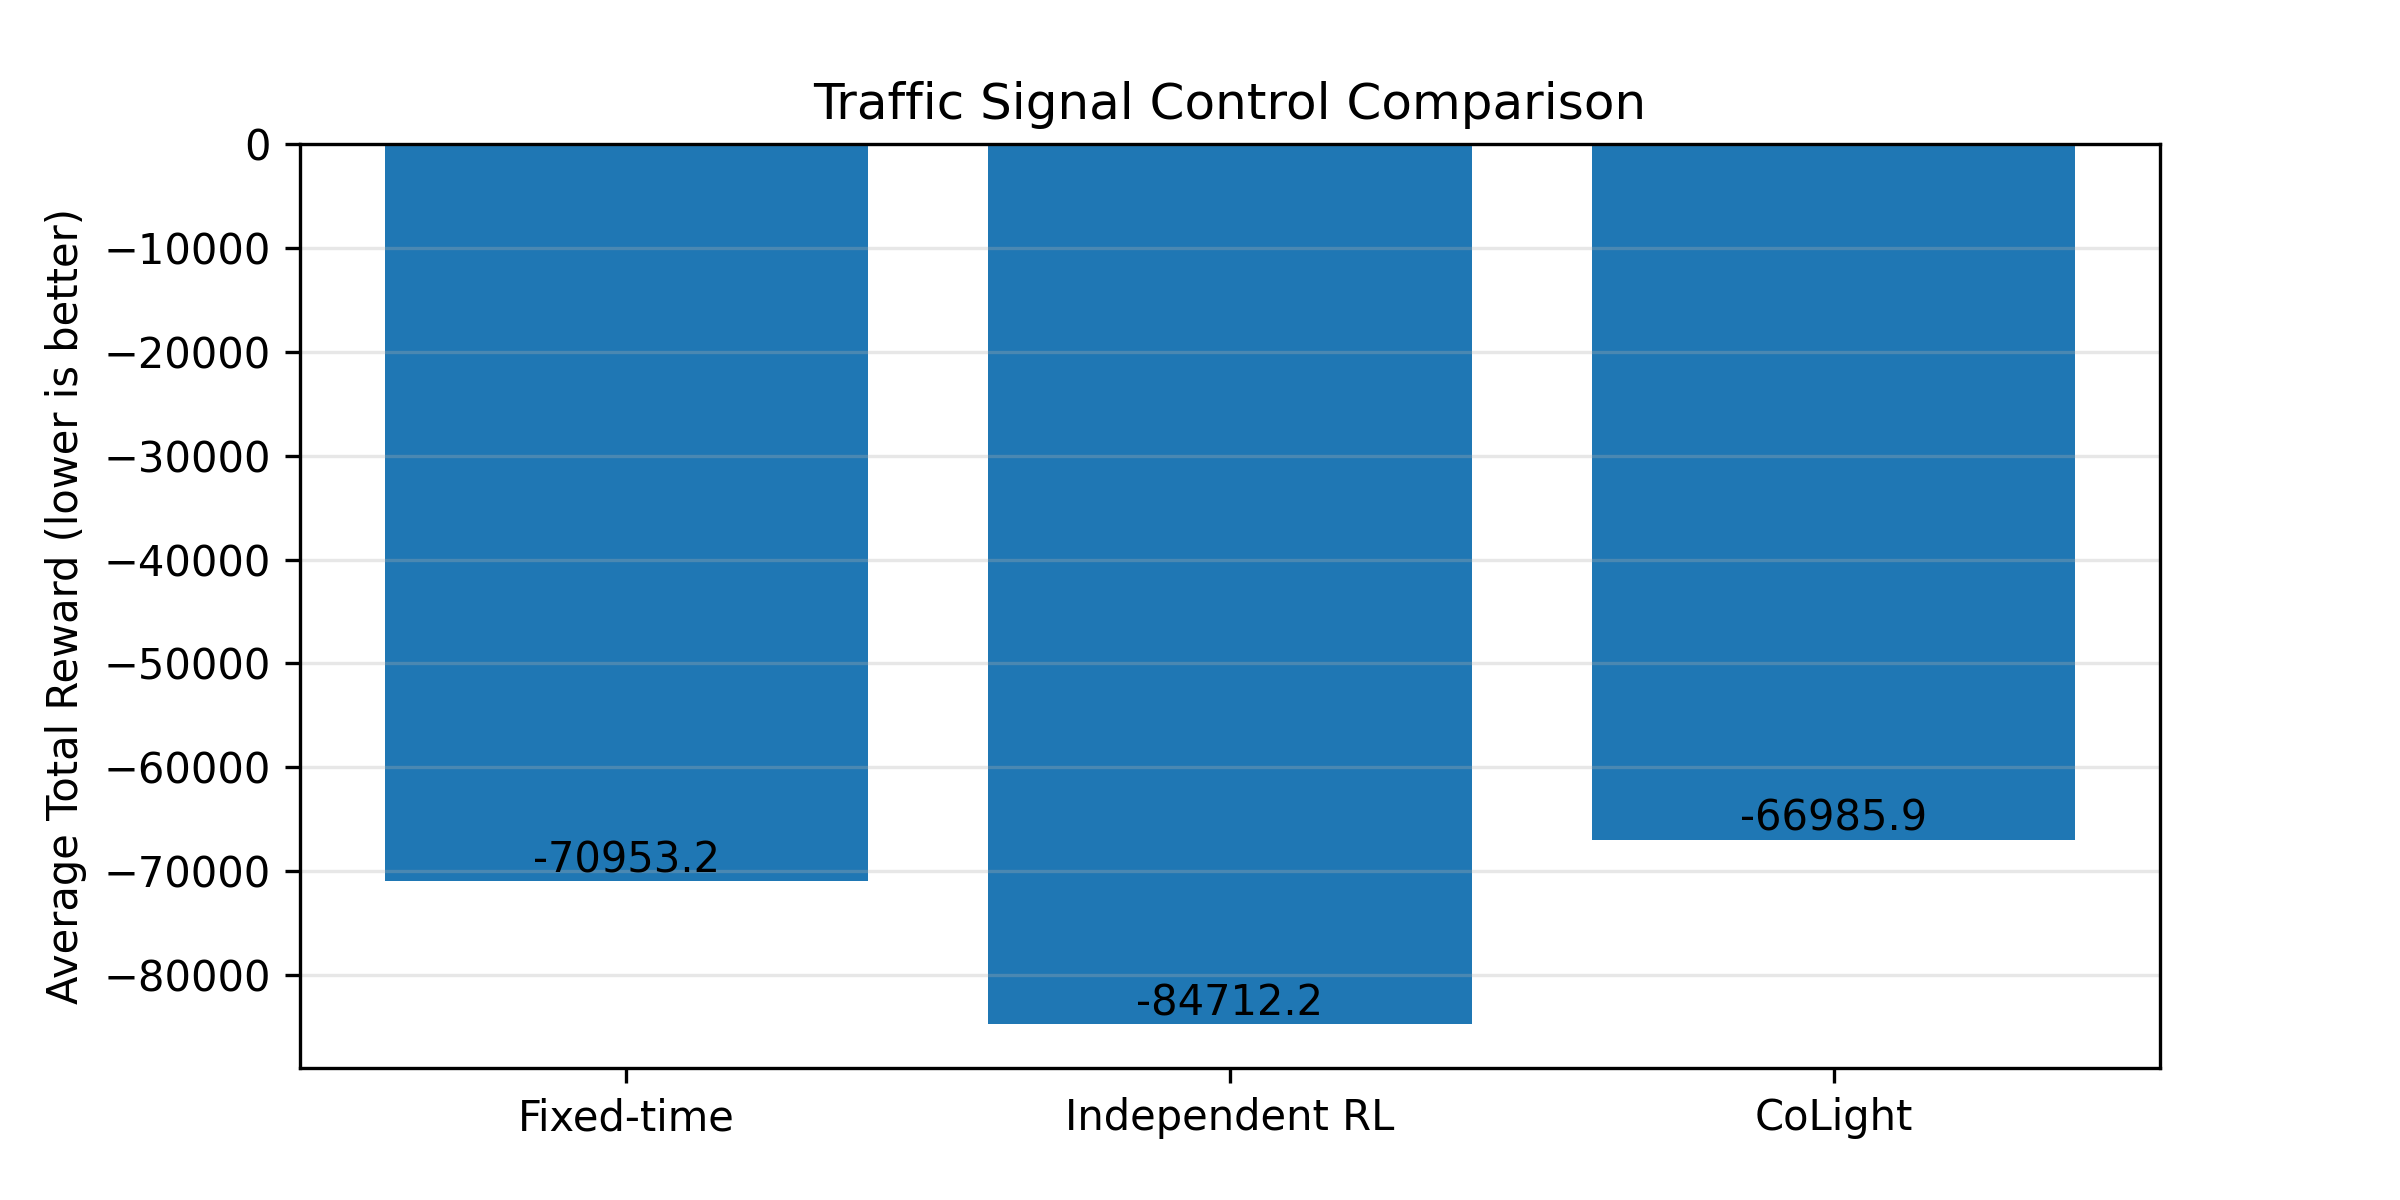
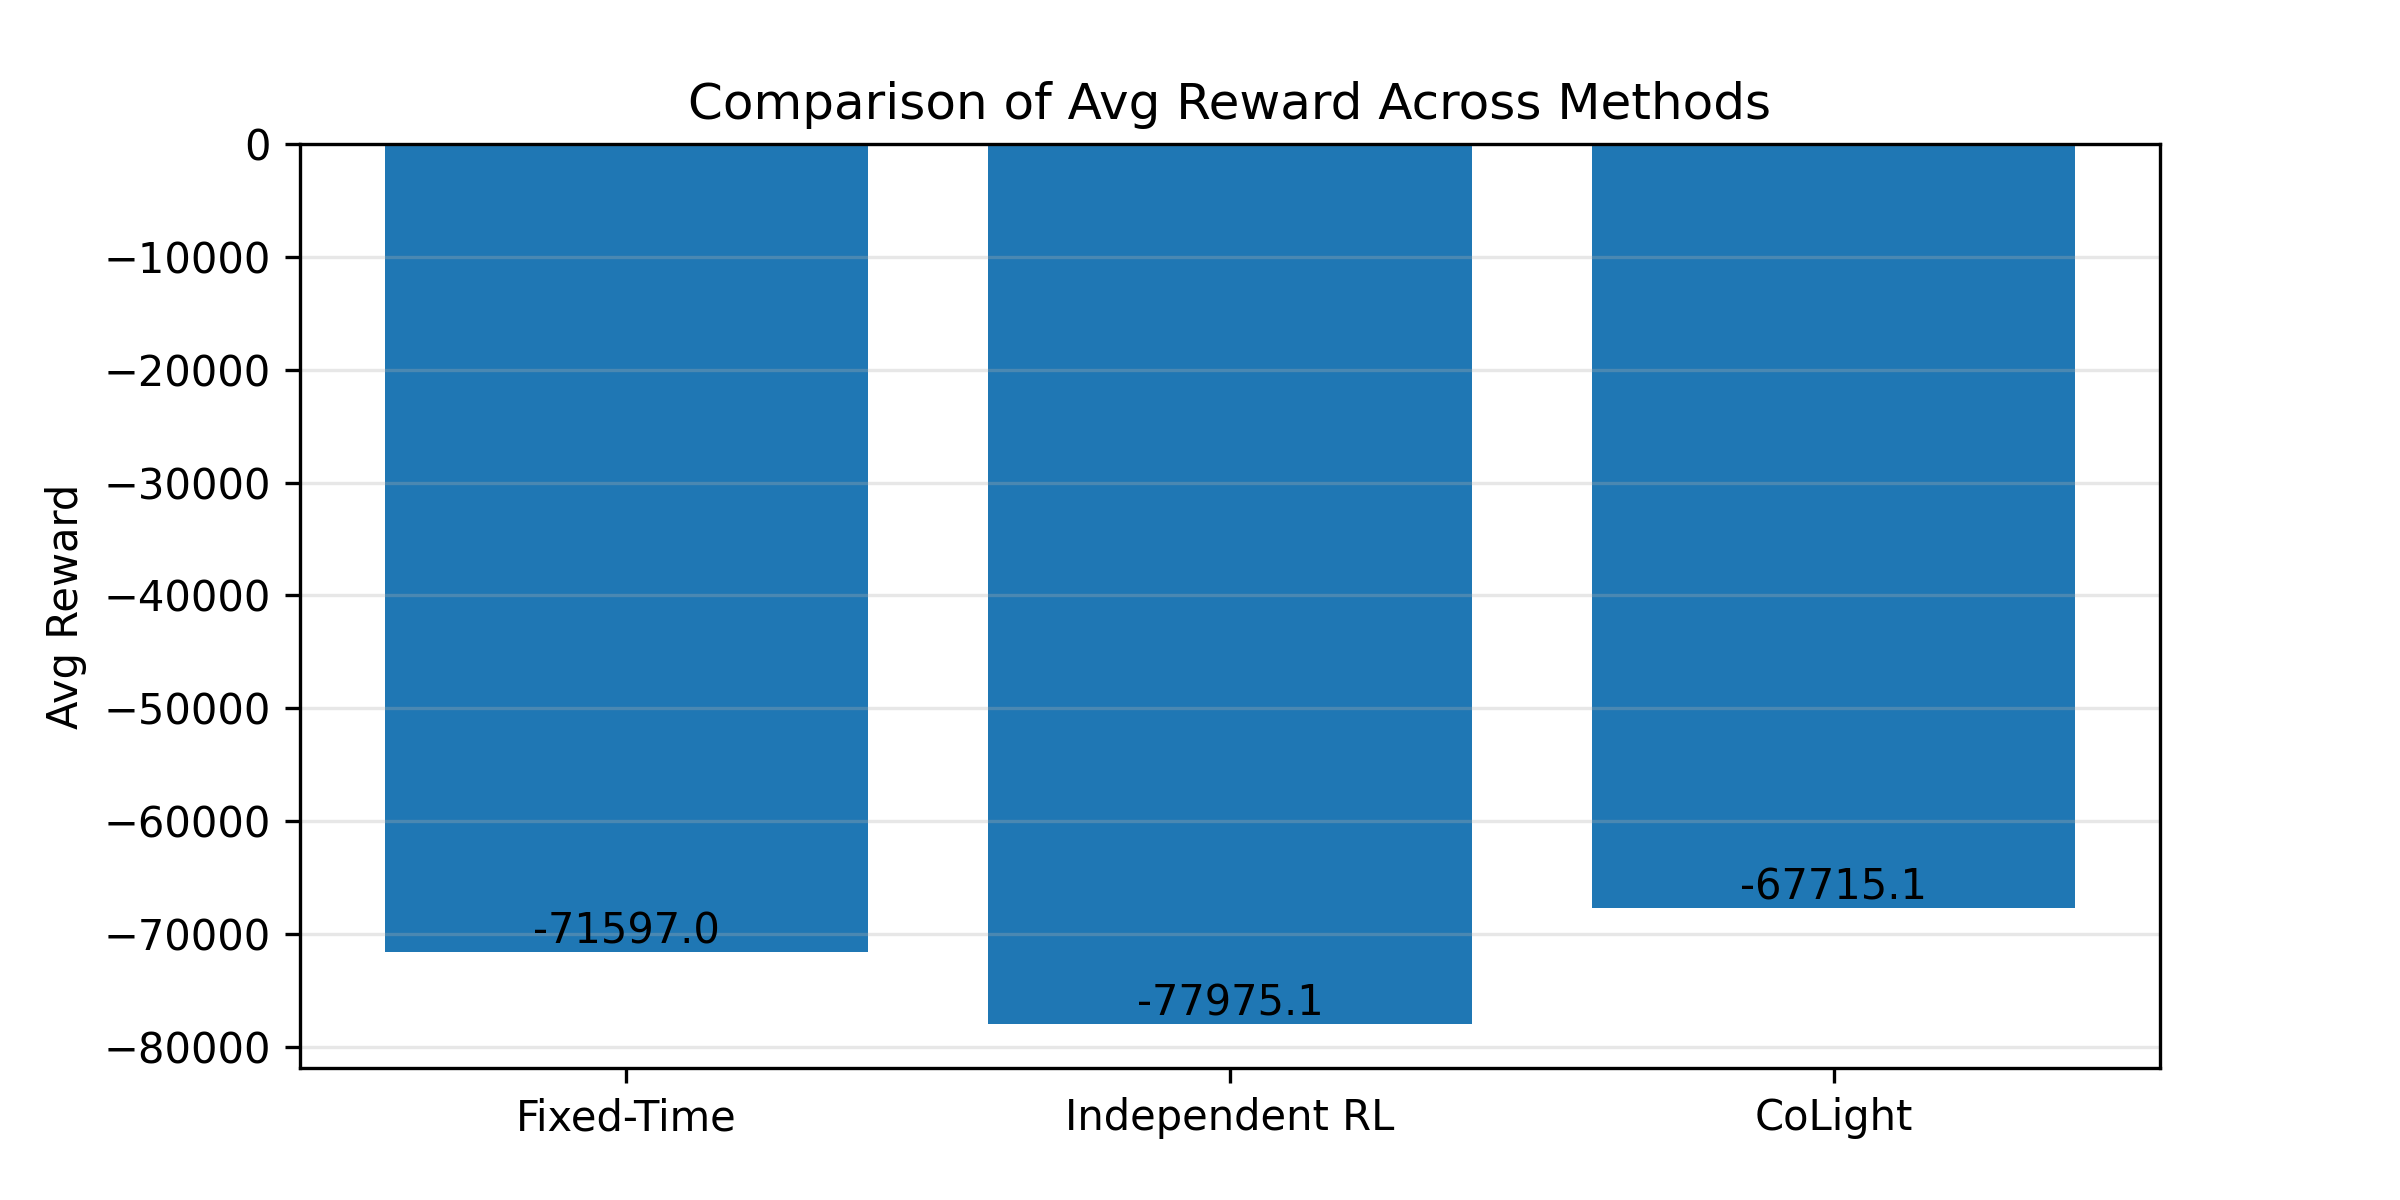
Updated Colight algo, simulation environment, baselines and visuals

diff --git a/eval_independent_multi.py b/eval_independent_multi.py
@@ -18,8 +18,11 @@ for i in range(num_nodes):
     agent.epsilon = 0.0  # greedy evaluation
     agents[i] = agent
 
-episodes = 10
+episodes = 20
 results = []
+episode_rewards = []
+switch_counts = []
+avg_queues = []
 
 print("=== Evaluating Independent RL ===")
 
@@ -28,19 +31,49 @@ for ep in range(episodes):
     done = False
     total_reward = 0
 
-    while not done:
-        actions = {i: agents[i].select_action(state[i]) for i in range(num_nodes)}
-        next_state, reward_dict, done = env.step(actions)
-        total_reward += sum(reward_dict.values())
-        state = next_state
+    min_green_steps = 3
+    last_switch_time = {i: -min_green_steps for i in range(num_nodes)}
+    step_counter = 0
 
-    print(f"Episode {ep+1}, Total reward: {total_reward:.2f}")
+    while not done:
+        raw_actions = {i: agents[i].select_action(state[i]) for i in range(num_nodes)}
+        actions = {}
+
+        for i in range(num_nodes):
+            if raw_actions[i] == 1 and (step_counter - last_switch_time[i]) < min_green_steps:
+                actions[i] = 0
+            else:
+                actions[i] = raw_actions[i]
+                if raw_actions[i] == 1:
+                    last_switch_time[i] = step_counter
+
+        next_state, reward_dict, done = env.step(actions)
+        raw_sum = sum(reward_dict.values())
+        switch_events = sum(1 for i in range(num_nodes) if actions[i] == 1)
+        switch_penalty = 0.1
+        total_reward += raw_sum - switch_penalty * switch_events
+
+        state = next_state
+        step_counter += 1
+
+    avg_queue = env.total_queue / max(env.steps, 1)
+
+    print(f"Episode {ep + 1}, Total reward: {total_reward:.2f}, "
+          f"Switches: {env.switch_count}, Avg queue: {avg_queue:.2f}")
     results.append(total_reward)
+    #episode_rewards.append(total_reward)
+    switch_counts.append(env.switch_count)
+    avg_queues.append(avg_queue)
 
 avg_reward= sum(results)/len(results)
-print("Average:", avg_reward)
+print("Average Reward:", avg_reward)
+print("Average Switches:", np.mean(switch_counts))
+print("Average Queue Length:", np.mean(avg_queues))
+
 # Save evaluation result
 with open("results_independent.txt", "w") as f:
-    f.write(str(avg_reward))
-print(f"Saved independent RL result: {avg_reward}")
+    f.write(f"avg_reward={avg_reward}\n")
+    f.write(f"avg_switches={np.mean(switch_counts)}\n")
+    f.write(f"avg_queue={np.mean(avg_queues)}\n")
+print(f"Saved independent RL result")
 

diff --git a/plot_graphs.py b/plot_graphs.py
@@ -1,46 +1,54 @@
 import matplotlib.pyplot as plt
 
-def read_value(filename):
+
+def read_metrics(filename):
     try:
         with open(filename, "r") as f:
-            val = float(f.read().strip())
-        return val
+            lines = f.readlines()
+
+        data = {}
+
+        for line in lines:
+            key, value = line.strip().split("=")
+            data[key] = float(value)
+
+        return data
     except:
-        print(f"⚠ WARNING: File {filename} not found or unreadable.")
+        print(f"⚠ WARNING: Could not read {filename}")
         return None
 
-# Read logged averages
-fixed = read_value("results_fixed.txt")
-independent = read_value("results_independent.txt")
-colight = read_value("results_colight.txt")
 
-labels = []
-values = []
+# Load metric dictionaries
+fixed = read_metrics("results_fixed.txt")
+independent = read_metrics("results_independent.txt")
+colight = read_metrics("results_colight.txt")
 
-if fixed is not None:
-    labels.append("Fixed-time")
-    values.append(fixed)
+methods = ["Fixed-Time", "Independent RL", "CoLight"]
 
-if independent is not None:
-    labels.append("Independent RL")
-    values.append(independent)
+# Choose which metric to plot: reward / switches / queue
+metric_key = "avg_reward"  # 👈 change to avg_queue or avg_switches
 
-if colight is not None:
-    labels.append("CoLight")
-    values.append(colight)
+metric_values = [
+    fixed[metric_key] if fixed else None,
+    independent[metric_key] if independent else None,
+    colight[metric_key] if colight else None,
+]
 
 # Plot
-plt.figure(figsize=(8,4))
-bars = plt.bar(labels, values)
+plt.figure(figsize=(8, 4))
+bars = plt.bar(methods, metric_values)
 
-# Annotate bars
-for bar, val in zip(bars, values):
-    plt.text(bar.get_x() + bar.get_width()/2, bar.get_height(),
-             f"{val:.1f}", ha="center", va="bottom")
+for bar, val in zip(bars, metric_values):
+    plt.text(
+        bar.get_x() + bar.get_width() / 2,
+        bar.get_height(),
+        f"{val:.1f}",
+        ha="center",
+        va="bottom"
+    )
 
-plt.ylabel("Average Total Reward (lower is better)")
-plt.title("Traffic Signal Control Comparison")
+plt.title(f"Comparison of {metric_key.replace('_', ' ').title()} Across Methods")
+plt.ylabel(metric_key.replace("_", " ").title())
 plt.grid(axis='y', alpha=0.3)
-
 plt.savefig("comparison_plot.png", dpi=300)
 plt.show()

diff --git a/eval_colight_multi.py b/eval_colight_multi.py
@@ -15,12 +15,18 @@ agent.epsilon = 0.0  # greedy
 
 episodes = 20
 results = []
+switch_counts = []
+avg_queues = []
 
 for ep in range(episodes):
     state = env.reset()
     state_matrix = np.array(list(state.values()))
     done = False
     total = 0
+    min_green_steps = 3
+    last_switch_time = {i: -min_green_steps for i in range(env.num_nodes)}
+    step_counter = 0
+
 
     while not done:
         # Format input correctly
@@ -30,20 +36,43 @@ for ep in range(episodes):
         q_vals = q_vals.squeeze(0)               # (N, A)
 
         # Choose best actions per intersection
-        actions = {i: q_vals[i].argmax().item() for i in range(env.num_nodes)}
+        raw_actions = {i: q_vals[i].argmax().item() for i in range(env.num_nodes)}
+        actions = {}
+
+        for i in range(env.num_nodes):
+            if raw_actions[i] == 1 and (step_counter - last_switch_time[i]) < min_green_steps:
+                actions[i] = 0
+            else:
+                actions[i] = raw_actions[i]
+                if raw_actions[i] == 1:
+                    last_switch_time[i] = step_counter
 
         next_state, reward, done = env.step(actions)
+        step_counter += 1
+        raw_sum = sum(reward.values())
 
-        total += sum(reward.values())
+        switch_events = sum(1 for i in range(env.num_nodes) if actions[i] == 1)
+        switch_penalty = 0.1  # tuneable
+
+        total += raw_sum - switch_penalty * switch_events
         state_matrix = np.array(list(next_state.values()))
 
-    print(f"Episode {ep+1}/{episodes}, Total reward: {total:.2f}")
+
+    avg_queue = env.total_queue / max(env.steps, 1)
+    print(f"Episode {ep + 1}, Total reward:{total:.2f}, "
+          f"Switches:{env.switch_count}, Avg queue:{avg_queue:.2f}")
     results.append(total)
+    switch_counts.append(env.switch_count)
+    avg_queues.append(avg_queue)
 
 avg = sum(results) / len(results)
 print(f"Average Reward: {avg:.2f}")
+print("Average Switches:", np.mean(switch_counts))
+print("Average Queue Length:", np.mean(avg_queues))
 
 # Save evaluation result
 with open("results_colight.txt", "w") as f:
-    f.write(str(avg))
-print(f"Saved CoLight result: {avg}")
+    f.write(f"avg_reward={avg}\n")
+    f.write(f"avg_switches={np.mean(switch_counts)}\n")
+    f.write(f"avg_queue={np.mean(avg_queues)}\n")
+print(f"Saved CoLight result")

diff --git a/multi_intersection_cstat.py b/multi_intersection_cstat.py
@@ -84,13 +84,23 @@ class TrafficNetworkEnv:
             self.adj_matrix[i, j] = 1.0
             self.adj_matrix[j, i] = 1.0
 
-    # -------- Core RL Environment API --------
+        self.last_phases = np.zeros(self.num_nodes, dtype=int)  # previous phase per node
+        self.switch_count = 0  # number of phase switches
+        self.total_queue = 0.0  # sum of all queues over episode
+        self.steps = 0
+
+        # -------- Core RL Environment API --------
 
     def reset(self):
         """
         Reset all intersections and return dict of 4 states.
         """
-        return {i: self.intersections[i].reset() for i in range(self.num_nodes)}
+        states = {i: self.intersections[i].reset() for i in range(self.num_nodes)}
+        self.last_phases = np.zeros(self.num_nodes, dtype=int)
+        self.switch_count = 0
+        self.total_queue = 0.0
+        self.steps = 0
+        return states
 
     def step(self, actions):
         """
@@ -103,6 +113,15 @@ class TrafficNetworkEnv:
         for i in range(self.num_nodes):
             a = actions.get(i, 0)  # default: keep phase
             s_next, r, done_i, info = self.intersections[i].step(a)
+            curr_phase = np.argmax(s_next[2:4])
+
+            if curr_phase != self.last_phases[i]:
+                self.switch_count += 1
+                self.last_phases[i] = curr_phase
+
+            q_ns = s_next[0]
+            q_ew = s_next[1]
+            self.total_queue += (q_ns + q_ew)
 
             next_states[i] = s_next
             rewards[i] = r

diff --git a/run_multi_fixed.py b/run_multi_fixed.py
@@ -5,8 +5,11 @@ import numpy as np
 
 env = TrafficNetworkEnv()
 
-episodes = 5
+episodes = 20
 episode_totals = []
+switch_counts = []
+avg_queues = []
+
 for ep in range(episodes):
     state = env.reset()
     total_reward = 0.0
@@ -20,13 +23,24 @@ for ep in range(episodes):
         total_reward += sum(rewards.values())
         state = next_state
 
-    print(f"[Fixed 4-node] Episode {ep+1}/{episodes}, Total reward: {total_reward:.2f}")
+    avg_queue = env.total_queue / max(env.steps, 1)
+    print(f"[Fixed 4-node] Episode {ep + 1}/{episodes}, "
+          f"Reward: {total_reward:.2f}, "
+          f"Switches: {env.switch_count}, "
+          f"AvgQueue: {avg_queue:.2f}")
     episode_totals.append(total_reward)
+    switch_counts.append(env.switch_count)
+    avg_queues.append(avg_queue)
 
 avg_fixed = sum(episode_totals) / episodes
+print("Average Reward:", avg_fixed)
+print("Average Switches:", np.mean(switch_counts))
+print("Average Queue Length:", np.mean(avg_queues))
 
 # Save to file
 with open("results_fixed.txt", "w") as f:
-    f.write(str(avg_fixed))
+    f.write(f"avg_reward={avg_fixed}\n")
+    f.write(f"avg_switches={np.mean(switch_counts)}\n")
+    f.write(f"avg_queue={np.mean(avg_queues)}\n")
 
-print(f"Saved Fixed controller result: {avg_fixed}")
+print(f"Saved Fixed controller result")

diff --git a/visualize_colight.py b/visualize_colight.py
@@ -44,6 +44,9 @@ state_dict = env.reset()
 state_matrix = np.array(list(state_dict.values()))
 done = False
 frame_counter = 0
+min_green_steps = 3
+last_switch_time = {i: -min_green_steps for i in range(env.num_nodes)}
+step_counter = 0
 
 running = True
 while running:
@@ -59,8 +62,18 @@ while running:
         s_tensor = torch.FloatTensor(state_matrix).unsqueeze(0)  # (1,N,S)
         q_values = agent.q_net(s_tensor.squeeze(0), adj)
 
-        actions = agent.select_actions(q_values)
+        raw_actions = agent.select_actions(q_values)
+        actions = {}
 
+        for i in range(num_nodes):
+            # prevent switching unless minimum time passed
+            if raw_actions[i] == 1 and (step_counter - last_switch_time[i]) < min_green_steps:
+                actions[i] = 0
+            else:
+                actions[i] = raw_actions[i]
+                if raw_actions[i] == 1:
+                    last_switch_time[i] = step_counter
+        step_counter += 1
         next_state_dict, rewards, done = env.step(actions)
         state_matrix = np.array(list(next_state_dict.values()))
 
